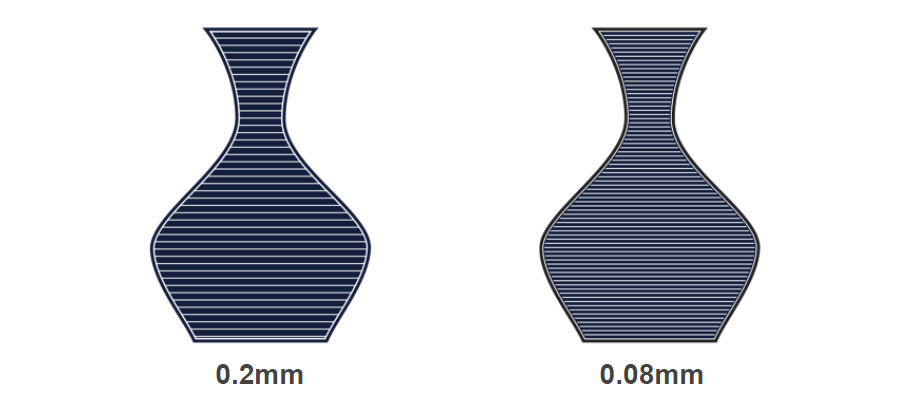
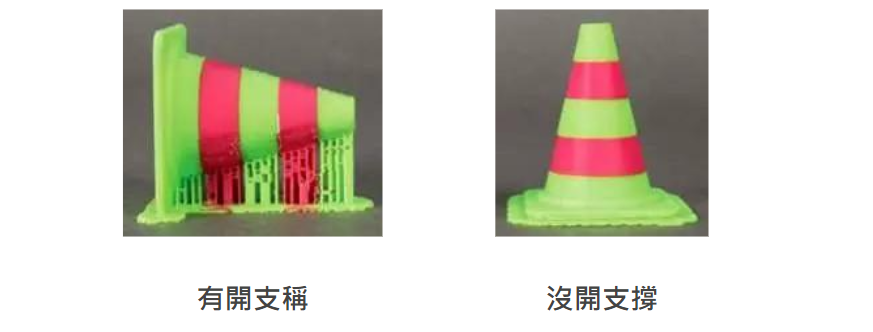
GitBook: [master] one page and 8 assets modified

diff --git a/cura.md b/cura.md
@@ -64,15 +64,39 @@ M84 X Y E ;Disable all steppers but Z
 
 **填充密度會影響列印件的強度和重量**
 
-![](.gitbook/assets/image%20%2865%29.png)
-
 ![](.gitbook/assets/image%20%2867%29.png)
+
+![](.gitbook/assets/image%20%2870%29.png)
 
 ### 👉 切層厚度
 
 **切層厚度會影響列印成品的細緻程度**
 
-![](.gitbook/assets/image%20%2866%29.png)
+![](.gitbook/assets/image%20%2868%29.png)
+
+![](.gitbook/assets/image%20%2865%29.png)
+
+### 👉 支撐
+
+**根據列印品去選擇是否開啟支撐**
 
 ![](.gitbook/assets/image%20%2864%29.png)
+
+### 👉 筏板
+
+這個底座的目的是希望讓3D模型可以更好地粘貼在打印平台上，防止3D模型出現翹邊的問題。另一方面，如過模型底部的面積很小的話，加上raft後也可以增強這個模型粘貼在打印平台上的程度。一般來講當3D打印完畢以後，只有把模型底部的raft直接移除就搞定。
+
+![](.gitbook/assets/image%20%2871%29.png)
+
+
+
+### 👉 附著
+
+{% hint style="info" %}
+更多參數設定[https://3dmart.com.tw/news/ultimaker-cura2.1-printing-software-guide](https://3dmart.com.tw/news/ultimaker-cura2.1-printing-software-guide)
+{% endhint %}
+
+{% hint style="info" %}
+故障排除參考[https://z3dfilament.blogspot.com/2019/01/3dproblem.html](https://z3dfilament.blogspot.com/2019/01/3dproblem.html)
+{% endhint %}
 
